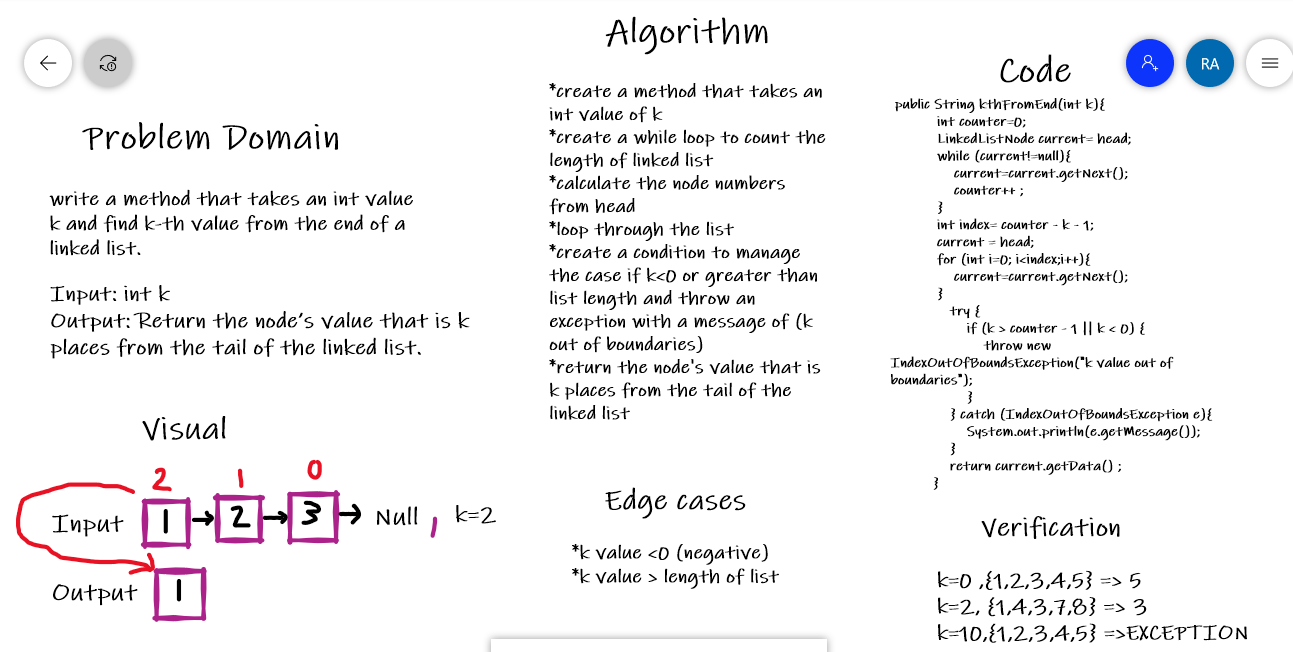
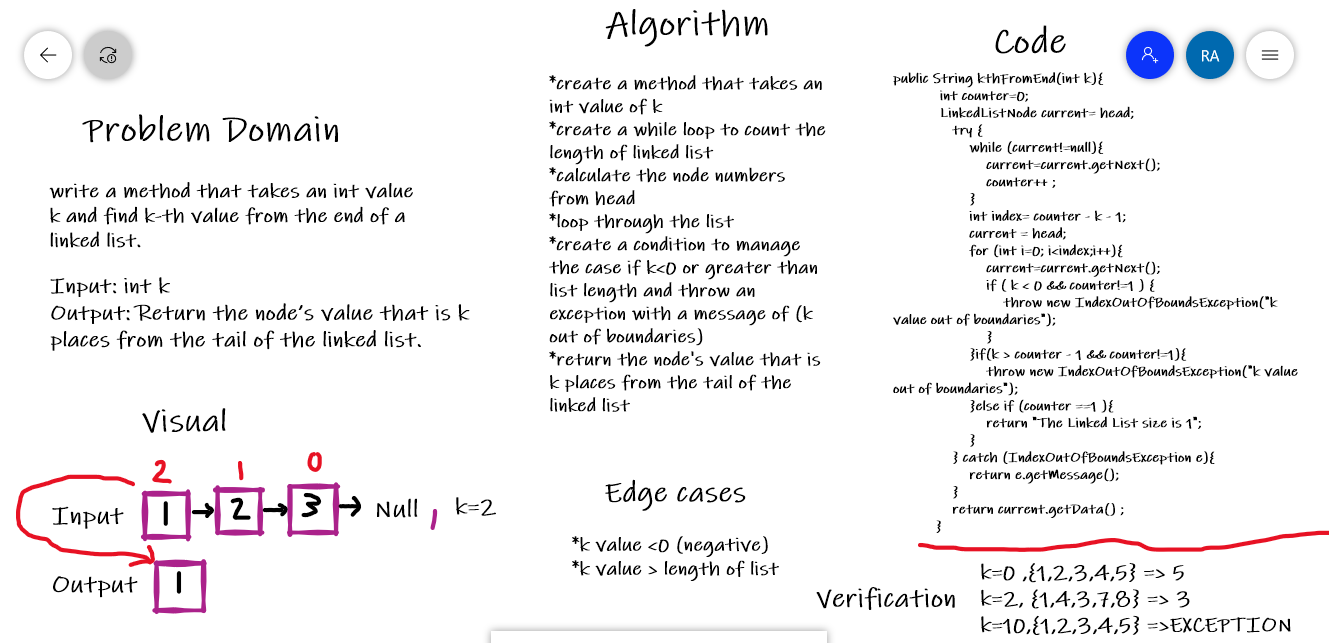
add tests

diff --git a/challenge5+6+7/lib/src/main/java/linkedList/LinkedList.java b/challenge5+6+7/lib/src/main/java/linkedList/LinkedList.java
@@ -111,23 +111,29 @@ public class LinkedList {
            int counter=0;
            LinkedListNode current= head;
 
-           while (current!=null){
-               current=current.getNext();
-               counter++ ;
-           }
-
-           int index= counter - k - 1;
-           current = head;
-           for (int i=0; i<index;i++){
-               current=current.getNext();
-           }
               try {
-                  if (k > counter - 1 || k < 0) {
+
+                  while (current!=null){
+                      current=current.getNext();
+                      counter++ ;
+
+                  }
+                  int index= counter - k - 1;
+                  current = head;
+                  for (int i=0; i<index;i++){
+                      current=current.getNext();
+                      if ( k < 0 && counter!=1 ) {
+                          throw new IndexOutOfBoundsException("k value out of boundaries");
+                      }
+
+                  }if(k > counter - 1 && counter!=1){
                       throw new IndexOutOfBoundsException("k value out of boundaries");
+                  }else if (counter ==1 ){
+                      return "The Linked List size is 1";
                   }
 
               } catch (IndexOutOfBoundsException e){
-                  System.out.println(e.getMessage());
+                  return e.getMessage();
               }
 
               return current.getData() ;

diff --git a/challenge5+6+7/lib/src/test/java/linkedList/MainTest.java b/challenge5+6+7/lib/src/test/java/linkedList/MainTest.java
@@ -72,6 +72,31 @@ class MainTest {
         Assertions.assertEquals("Linked List = {a} => {b} => {c} => {new} => NULL" , linkedList.toString());
 
     }
+    @Test
+    // test four cases
+    public void kthTest(){
+        LinkedList linkedList=new LinkedList();
+        linkedList.insert("5");
+        linkedList.insert("9");
+        linkedList.insert("3");
+        linkedList.insert("7");
+        Assertions.assertEquals(4, linkedList.size);
+        Assertions.assertEquals("9",linkedList.kthFromEnd(2));
+        Assertions.assertEquals( "k value out of boundaries",linkedList.kthFromEnd(8));
+        Assertions.assertEquals( "k value out of boundaries",linkedList.kthFromEnd(4));
+        Assertions.assertEquals( "k value out of boundaries",linkedList.kthFromEnd(-5));
+        Assertions.assertEquals( "9",linkedList.kthFromEnd(2));
+
+
+    }
+    @Test
+    // the case when linked list size =1
+    public void kthTestWithSizeOne(){
+        LinkedList linkedList=new LinkedList();
+        linkedList.insert("5");
+        Assertions.assertEquals( "The Linked List size is 1",linkedList.kthFromEnd(4));
+
+    }
 
 
     }

diff --git a/challenge5+6+7/lib/src/main/java/linkedList/Main.java b/challenge5+6+7/lib/src/main/java/linkedList/Main.java
@@ -34,8 +34,9 @@ public class Main {
         //*** challenge 07
         // kth from end
 
+        System.out.println(linkedList.kthFromEnd(3));
+        System.out.println(linkedList.kthFromEnd(10));
 
-        System.out.println(linkedList.kthFromEnd(8));
 
 
 
